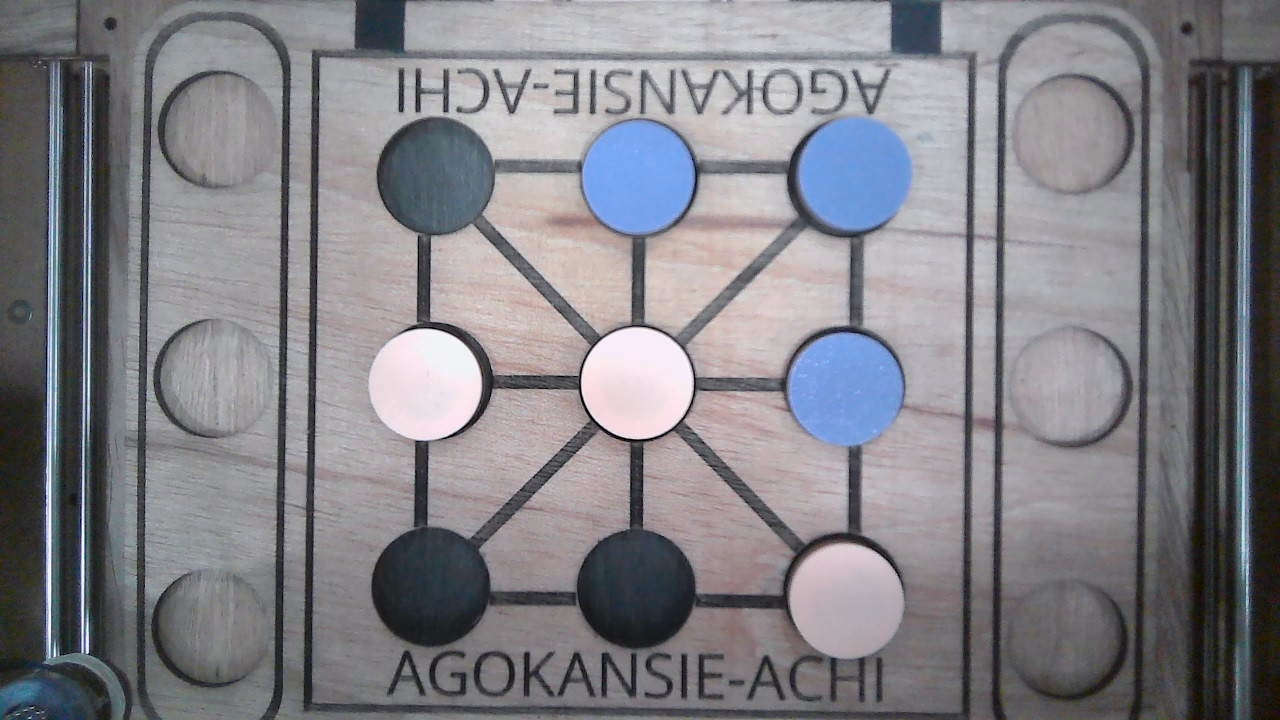
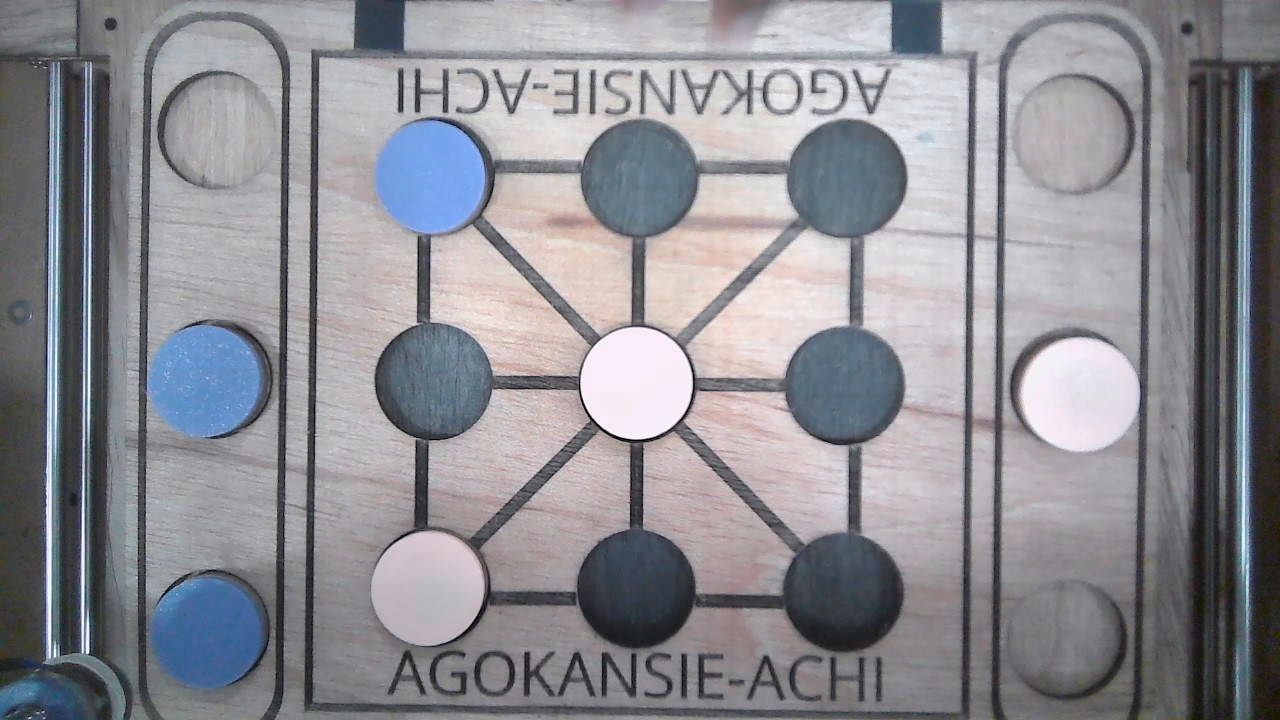
subtle bug

diff --git a/src/PlayGame/Tutorial/dameLessons/Lesson6.jsx b/src/PlayGame/Tutorial/dameLessons/Lesson6.jsx
@@ -14,7 +14,7 @@ import { gsap } from 'gsap'
 
 import tipsOne from '../../../assets/sound/dame/tipsOne.m4a'
 import tipsTwo from '../../../assets/sound/dame/tipsTwo.m4a'
-import tipsThree from '../../../assets/sound/dame/tipsThreee.m4a'
+import tipsThree from '../../../assets/sound/dame/tipsThree.m4a'
 import tipsFour from '../../../assets/sound/dame/tipsFOur.m4a'
 
 
